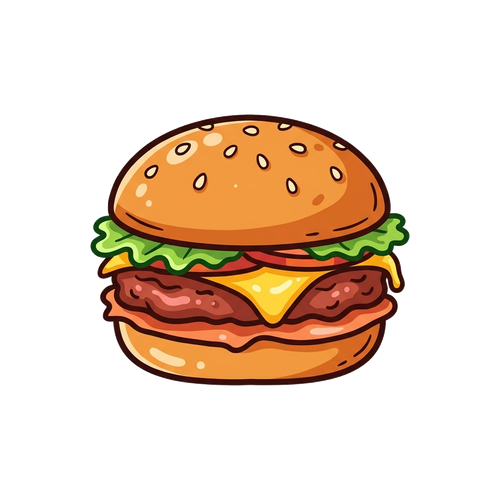
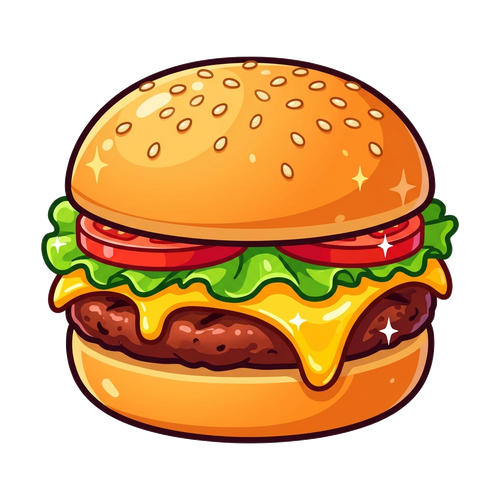
Add files via upload

diff --git a/src/config/items.js b/src/config/items.js
@@ -1,18 +1,18 @@
 // ============================================================
-// 📦 src/config/items.js — 比奇堡深海美食定義 (Bikini Bottom Edition)
+// 📦 src/config/items.js — 比奇堡高糖分美味甜點快餐 (Dopamine Edition)
 // ============================================================
 
 export const ITEM_DEFS = [
-  { id: 'onigiri',    name: '比奇堡經典美味蟹堡',   label: '美味蟹堡',   price: '¥280', desc: '秘傳配方！烘烤芝麻麵包夾入多汁蟹肉排、融化起司與爽脆生菜。' },
-  { id: 'sushi',      name: '野生水母果醬玻璃罐',   label: '水母果醬',   price: '¥320', desc: '在水母田親手採集！透亮霓虹粉紫色的深海天然果醬，甜而不膩。' },
-  { id: 'ramen',      name: '熱騰騰海藻脆脆薯條',   label: '海藻薯條',   price: '¥180', desc: '經典紅色梯形包裝！現炸酥脆的深海綠海甘藍薯條，唰嘴停不下來。' },
-  { id: 'tamagoyaki', name: '小蝸專用蝸牛飼料罐',   label: '小蝸飼料',   price: '¥150', desc: '青綠色金屬圓柱罐頭！小蝸的最愛，富含礦物質與深海鈣質。' },
-  { id: 'takoyaki',   name: '海泡發光能量蘇打水',   label: '海泡蘇打',   price: '¥200', desc: '咕嚕嚕冒著氣泡！亮青綠色氣泡蘇打杯，插著紅白條紋吸管。' },
-  { id: 'yakitori',   name: '粉紅海星旋轉棒棒糖',   label: '海星棒棒糖', price: '¥160', desc: '派大星推薦！五角海星形狀的粉紅與金黃雙色旋轉硬糖。' },
-  { id: 'pudding',    name: '復古錨牌海盜沙士罐',   label: '錨牌沙士',   price: '¥170', desc: '深海老水手最愛！印著生鏽航海鐵錨標誌的復古橘紅碳酸汽水。' },
-  { id: 'ikura',      name: '發光粉紅珍珠巨蚌盒',   label: '珍珠大蚌',   price: '¥360', desc: '紫藍色貝殼微張，裡面夾著一顆璀璨發光的粉紅糖果大珍珠。' },
-  { id: 'daifuku',    name: '電鰻高壓電能量飲料',   label: '電鰻能量',   price: '¥220', desc: '消光黑金屬罐印著亮黃閃電！喝一口瞬間精力充沛的深海能量飲。' },
-  { id: 'inari',      name: '海綿方塊起司蛋糕',     label: '海綿蛋糕',   price: '¥250', desc: '金黃多孔的海綿蛋糕切塊，頂部綴著一顆鮮紅晶亮的糖漬櫻桃。' }
+  { id: 'onigiri',    name: '巨無霸熔岩起司美味蟹堡', label: '美味蟹堡',   price: '¥280', desc: '金黃蓬鬆芝麻包夾入爆汁厚切肉排、流淌起司與鮮脆生菜！' },
+  { id: 'sushi',      name: '發光霓虹水母果醬罐',     label: '水母果醬',   price: '¥320', desc: '晶瑩剔透如果凍般的水母果醬，表面帶著閃閃發光的星星高光！' },
+  { id: 'ramen',      name: '微笑金黃波浪脆薯條',     label: '微笑薯條',   price: '¥180', desc: '鮮紅微笑快餐盒裝滿金黃現炸粗切波浪薯條，香脆無比！' },
+  { id: 'tamagoyaki', name: '草莓彩虹糖霜甜甜圈',     label: '草莓甜甜圈', price: '¥150', desc: '圓滾滾金黃烤甜甜圈，淋滿發光泡泡糖粉紅草莓淋醬與彩虹糖針！' },
+  { id: 'takoyaki',   name: '櫻桃聖代浮樂朵可樂杯',   label: '漂浮可樂',   price: '¥200', desc: '亮天藍杯裝滿清涼氣泡蘇打，頂部擠著高高的香草冰淇淋與鮮紅櫻桃！' },
+  { id: 'yakitori',   name: '雙色水母螺旋冰淇淋',     label: '雙色甜筒',   price: '¥160', desc: '香脆華夫甜筒頂著粉紅水母與棉花糖藍的雙色夢幻螺旋冰淇淋！' },
+  { id: 'pudding',    name: '陽光熱帶柳橙果汁盒',     label: '柳橙果汁',   price: '¥170', desc: '亮橘黃色利樂果汁盒，帶著可愛笑臉圖案與紅白條紋吸管！' },
+  { id: 'ikura',      name: '深海牽絲熔岩起司披薩',   label: '起司披薩',   price: '¥360', desc: '黃金三角脆皮披薩切片，滿滿的牽絲熔岩起司與鮮美肉丁！' },
+  { id: 'daifuku',    name: '黑糖波霸爆珠奶茶杯',     label: '波霸奶茶',   price: '¥220', desc: '胖胖透明杯裝著濃醇焦糖奶茶，底層堆滿Q彈黑糖爆汁珍珠！' },
+  { id: 'inari',      name: '鳳梨千層海綿起司蛋糕',   label: '海綿蛋糕',   price: '¥250', desc: '鳳梨亮黃色多孔海綿蛋糕切片，夾著厚厚鮮奶油與頂級櫻桃！' }
 ];
 
 export function getItemById(id) {

diff --git a/src/themes/japanese/items.js b/src/themes/japanese/items.js
@@ -1,18 +1,18 @@
 // ============================================================
-// 📦 src/config/items.js — 比奇堡深海美食定義 (Bikini Bottom Edition)
+// 📦 src/config/items.js — 比奇堡高糖分美味甜點快餐 (Dopamine Edition)
 // ============================================================
 
 export const ITEM_DEFS = [
-  { id: 'onigiri',    name: '比奇堡經典美味蟹堡',   label: '美味蟹堡',   price: '¥280', desc: '秘傳配方！烘烤芝麻麵包夾入多汁蟹肉排、融化起司與爽脆生菜。' },
-  { id: 'sushi',      name: '野生水母果醬玻璃罐',   label: '水母果醬',   price: '¥320', desc: '在水母田親手採集！透亮霓虹粉紫色的深海天然果醬，甜而不膩。' },
-  { id: 'ramen',      name: '熱騰騰海藻脆脆薯條',   label: '海藻薯條',   price: '¥180', desc: '經典紅色梯形包裝！現炸酥脆的深海綠海甘藍薯條，唰嘴停不下來。' },
-  { id: 'tamagoyaki', name: '小蝸專用蝸牛飼料罐',   label: '小蝸飼料',   price: '¥150', desc: '青綠色金屬圓柱罐頭！小蝸的最愛，富含礦物質與深海鈣質。' },
-  { id: 'takoyaki',   name: '海泡發光能量蘇打水',   label: '海泡蘇打',   price: '¥200', desc: '咕嚕嚕冒著氣泡！亮青綠色氣泡蘇打杯，插著紅白條紋吸管。' },
-  { id: 'yakitori',   name: '粉紅海星旋轉棒棒糖',   label: '海星棒棒糖', price: '¥160', desc: '派大星推薦！五角海星形狀的粉紅與金黃雙色旋轉硬糖。' },
-  { id: 'pudding',    name: '復古錨牌海盜沙士罐',   label: '錨牌沙士',   price: '¥170', desc: '深海老水手最愛！印著生鏽航海鐵錨標誌的復古橘紅碳酸汽水。' },
-  { id: 'ikura',      name: '發光粉紅珍珠巨蚌盒',   label: '珍珠大蚌',   price: '¥360', desc: '紫藍色貝殼微張，裡面夾著一顆璀璨發光的粉紅糖果大珍珠。' },
-  { id: 'daifuku',    name: '電鰻高壓電能量飲料',   label: '電鰻能量',   price: '¥220', desc: '消光黑金屬罐印著亮黃閃電！喝一口瞬間精力充沛的深海能量飲。' },
-  { id: 'inari',      name: '海綿方塊起司蛋糕',     label: '海綿蛋糕',   price: '¥250', desc: '金黃多孔的海綿蛋糕切塊，頂部綴著一顆鮮紅晶亮的糖漬櫻桃。' }
+  { id: 'onigiri',    name: '巨無霸熔岩起司美味蟹堡', label: '美味蟹堡',   price: '¥280', desc: '金黃蓬鬆芝麻包夾入爆汁厚切肉排、流淌起司與鮮脆生菜！' },
+  { id: 'sushi',      name: '發光霓虹水母果醬罐',     label: '水母果醬',   price: '¥320', desc: '晶瑩剔透如果凍般的水母果醬，表面帶著閃閃發光的星星高光！' },
+  { id: 'ramen',      name: '微笑金黃波浪脆薯條',     label: '微笑薯條',   price: '¥180', desc: '鮮紅微笑快餐盒裝滿金黃現炸粗切波浪薯條，香脆無比！' },
+  { id: 'tamagoyaki', name: '草莓彩虹糖霜甜甜圈',     label: '草莓甜甜圈', price: '¥150', desc: '圓滾滾金黃烤甜甜圈，淋滿發光泡泡糖粉紅草莓淋醬與彩虹糖針！' },
+  { id: 'takoyaki',   name: '櫻桃聖代浮樂朵可樂杯',   label: '漂浮可樂',   price: '¥200', desc: '亮天藍杯裝滿清涼氣泡蘇打，頂部擠著高高的香草冰淇淋與鮮紅櫻桃！' },
+  { id: 'yakitori',   name: '雙色水母螺旋冰淇淋',     label: '雙色甜筒',   price: '¥160', desc: '香脆華夫甜筒頂著粉紅水母與棉花糖藍的雙色夢幻螺旋冰淇淋！' },
+  { id: 'pudding',    name: '陽光熱帶柳橙果汁盒',     label: '柳橙果汁',   price: '¥170', desc: '亮橘黃色利樂果汁盒，帶著可愛笑臉圖案與紅白條紋吸管！' },
+  { id: 'ikura',      name: '深海牽絲熔岩起司披薩',   label: '起司披薩',   price: '¥360', desc: '黃金三角脆皮披薩切片，滿滿的牽絲熔岩起司與鮮美肉丁！' },
+  { id: 'daifuku',    name: '黑糖波霸爆珠奶茶杯',     label: '波霸奶茶',   price: '¥220', desc: '胖胖透明杯裝著濃醇焦糖奶茶，底層堆滿Q彈黑糖爆汁珍珠！' },
+  { id: 'inari',      name: '鳳梨千層海綿起司蛋糕',   label: '海綿蛋糕',   price: '¥250', desc: '鳳梨亮黃色多孔海綿蛋糕切片，夾著厚厚鮮奶油與頂級櫻桃！' }
 ];
 
 export function getItemById(id) {

diff --git a/src/main.js b/src/main.js
@@ -451,10 +451,10 @@ class GameApp {
     const cols = 3;
     const rows = 3;
     
-    // 1. 左右呼吸邊距 12px，加大橫向櫃間距 (12px)，確保 9 個木框邊界分明！
-    const padX = 12; 
-    const gapX = 12; // 櫃與櫃之間有 12px 明確的空隙！
-    const gapY = 16; // 層與層之間有 16px 明確的透光空隙！
+    // 1. 左右邊距 8px，木框間距 9px，最大化槽位橫向寬度
+    const padX = 8; 
+    const gapX = 9; 
+    const gapY = 16; 
 
     // 2. 寬度基準
     const shelfW = (this.width - padX * 2 - gapX * (cols - 1)) / cols;
@@ -465,8 +465,8 @@ class GameApp {
 
     const availH = this.height - this.topSceneH - this.bottomSceneH;
     const maxGridShelfH = (availH - gapY * (rows - 1)) / rows;
-    // 木框比例壓實為正方形：徹底消滅上方 70% 尷尬空白，讓放大的商品直接填滿木框內部！
-    const shelfH = Math.round(shelfW * 0.98);
+    // 扎實微方比例，剛好包覆 92px 巨型美食！
+    const shelfH = Math.round(shelfW * 1.02);
 
     const totalGridH = rows * shelfH + (rows - 1) * gapY;
     const freeMidH = this.height - this.topSceneH - this.bottomSceneH;
@@ -480,9 +480,9 @@ class GameApp {
       sh.w = shelfW;
       sh.h = shelfH;
 
-      // 4根木框內部的槽位：邊界留 5px 避開左右立木，底部對齊底木
-      const innerPadX = 5;
-      const headerH = 4;
+      // 槽位極大化：縮短內縮，讓放大的商品有足夠的伸展舞台
+      const innerPadX = 2;
+      const headerH = 2;
       const bottomPlankH = 8;
       
       const slotW = (shelfW - innerPadX * 2) / 3;
@@ -1995,7 +1995,7 @@ class GameApp {
       const px = this.dragPointer.x;
       const py = this.dragPointer.y;
       this.fxCtx.save();
-      CozyFoodRenderer.drawFood(this.fxCtx, this.dragging.typeId, px, py - 12, 88, 88, {
+      CozyFoodRenderer.drawFood(this.fxCtx, this.dragging.typeId, px, py - 12, 102, 102, {
         isBack: false, scaleX: 1.15, scaleY: 1.15, lift: 14
       });
       this.fxCtx.restore();

diff --git a/src/render/foodRenderer.js b/src/render/foodRenderer.js
@@ -64,7 +64,8 @@ export class CozyFoodRenderer {
     // 基礎大小 (維持 1.15 倍，確保格子內飽滿)
     // 基礎大小最大化：配合大槽位放大，讓料理視覺更加飽滿大氣、觸控拖曳更靈敏
     // 圖示極限最大化：以槽位寬度 2.38 倍計算（約 80px~84px），讓美食無比飽滿、填滿木框核心！
-    const baseSize = Math.max(78, Math.min(84, Math.round(w * 2.38)));
+    // 圖示巨無霸最大化：直徑提升至 92px~96px，飽滿塞滿木框，立體多汁！
+    const baseSize = Math.max(90, Math.min(96, Math.round(w * 2.85)));
 
     ctx.save();
     ctx.translate(cx, cy);

diff --git a/sw.js b/sw.js
@@ -1,4 +1,4 @@
-const CACHE_NAME = 'hoshino-game-v72-bikinibottom-all-screens'; // 遞增版號以強制更新手機端的舊 SW
+const CACHE_NAME = 'hoshino-game-v73-super-dopamine-goods'; // 遞增版號以強制更新手機端的舊 SW
 
 const PRECACHE_ASSETS = [
   './',

diff --git a/index.html b/index.html
@@ -877,6 +877,6 @@
     </div>
   </div> <!-- 這是 #app 的結尾 -->
 
-  <script type="module" src="./src/main.js?v=20261108_bikinibottom_all_screens"></script>
+  <script type="module" src="./src/main.js?v=20261108_super_dopamine"></script>
 </body>
 </html>
